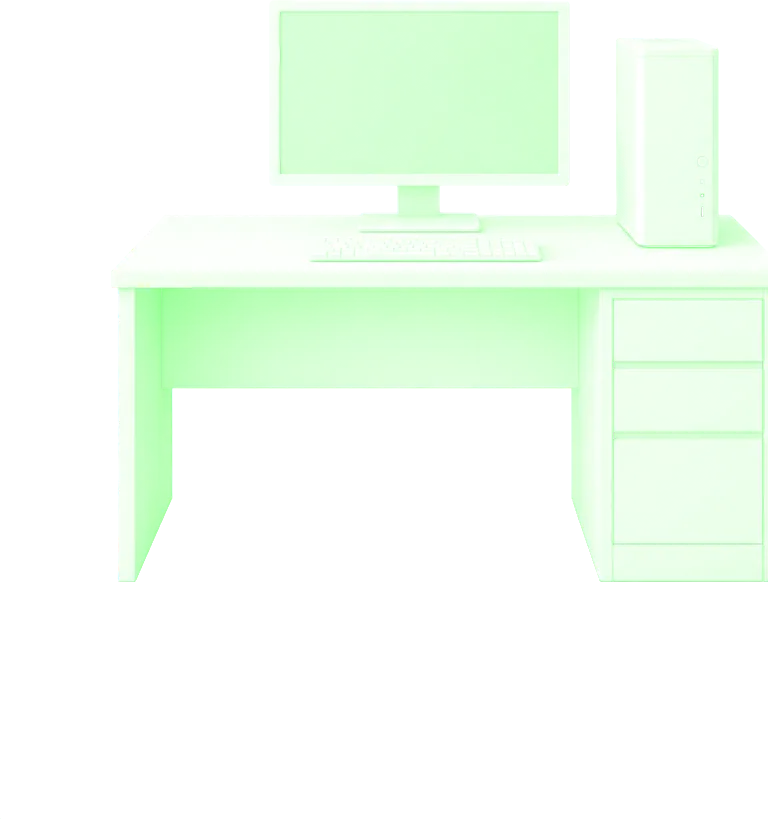
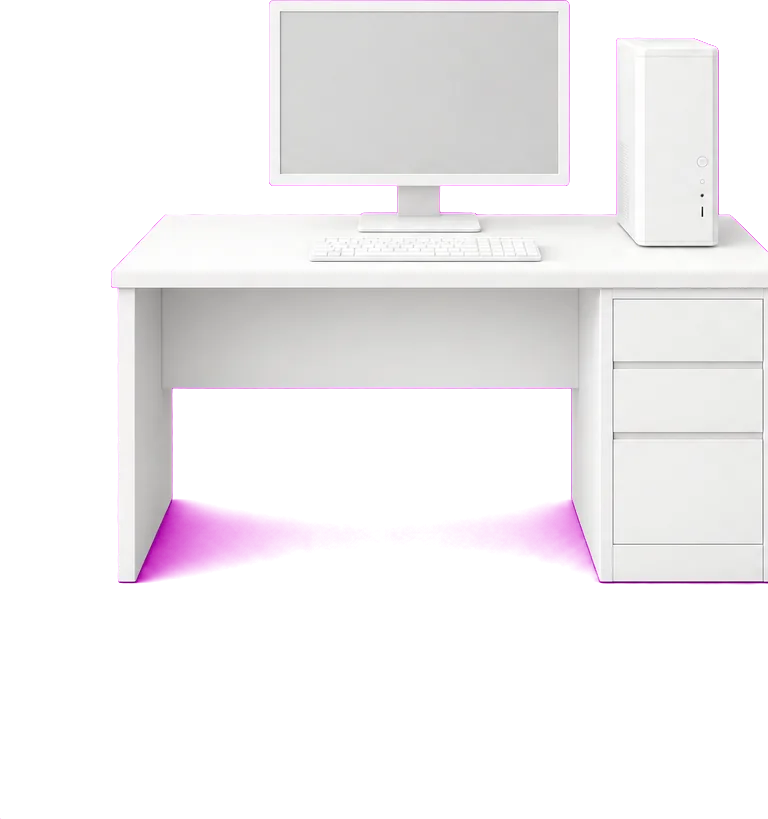
fix: preserve Office art colors and figure contrast

Changed region(s): [[0.1562, 0.3053, 1.0, 0.7326], [0.3438, 0.0, 0.8125, 0.3053], [0.8125, 0.0611, 1.0, 0.3053]]

diff --git a/office/scene/characters/vectorCharacter.ts b/office/scene/characters/vectorCharacter.ts
@@ -16,8 +16,8 @@ export class VectorCharacter extends Container {
   constructor(_agentId: string, color: number) {
     super()
     this.shadow = new Graphics()
-    this.shadow.ellipse(0, 5, 24, 7)
-    this.shadow.fill({ color: 0x000000, alpha: 0.13 })
+    this.shadow.ellipse(0, 5, 26, 8)
+    this.shadow.fill({ color: 0x000000, alpha: 0.18 })
     this.sprite = new Sprite(getAgentFrame(3) ?? undefined)
     this.sprite.anchor.set(0.5, 0.86)
     this.sprite.scale.set(0.22)

diff --git a/office/scene/OfficeScene.ts b/office/scene/OfficeScene.ts
@@ -423,8 +423,8 @@ export class OfficeScene {
         const room = new Sprite(amenity)
         room.anchor.set(0.5)
         room.position.set(zone.x, zone.y)
-        room.width = 140
-        room.height = 220
+        room.width = 120
+        room.height = 200
         map.addChild(room)
       }
       const label = new Text({ text: zone.label, style: { fontFamily: 'system-ui', fontSize: 13, fill: 0x73777e } })

diff --git a/scripts/check-office-art.py b/scripts/check-office-art.py
@@ -1,0 +1,28 @@
+from pathlib import Path
+
+from PIL import Image
+
+
+ART = Path(__file__).parents[1] / "office" / "art"
+ASSETS = [
+    "leader-room-white.webp",
+    "desk-white.webp",
+    "chair-white.webp",
+    "amenity-coffee-white.webp",
+    "amenity-workout-white.webp",
+    "amenity-restroom-white.webp",
+    "minimal-figure-sheet.webp",
+]
+
+for name in ASSETS:
+    image = Image.open(ART / name).convert("RGBA")
+    pixels = list(image.getdata())
+    transparent = sum(alpha < 5 for _, _, _, alpha in pixels)
+    neutral = sum(
+        alpha > 220 and max(red, green, blue) - min(red, green, blue) <= 12
+        for red, green, blue, alpha in pixels
+    )
+    assert transparent > 0, f"{name}: missing real transparent pixels"
+    assert neutral > len(pixels) * 0.15, f"{name}: surviving art is not neutral"
+
+print(f"checked {len(ASSETS)} keyed Office assets")

diff --git a/office/art/SOURCE.md b/office/art/SOURCE.md
@@ -11,3 +11,7 @@ were keyed to real alpha with edge de-fringing during conversion. The scene
 uses one coherent all-white minimalist render style, with a separately drawn
 chair, figure, desk, monitor, and front-facing room pieces. The figure sheet
 is shared by every agent, including the lead.
+
+The keyed-asset sanity check in `scripts/check-office-art.py` verifies that
+real transparency exists and that surviving light source pixels remain neutral
+white/grey rather than being channel-mixed by the magenta key.
